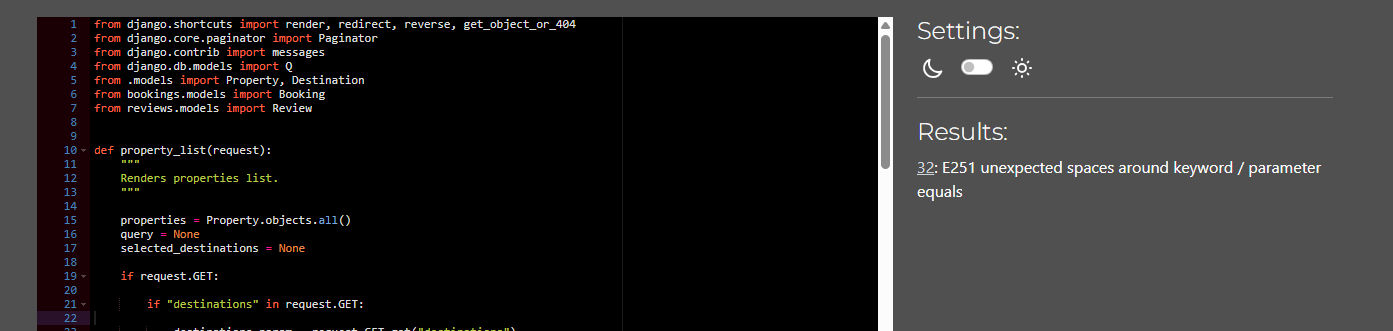
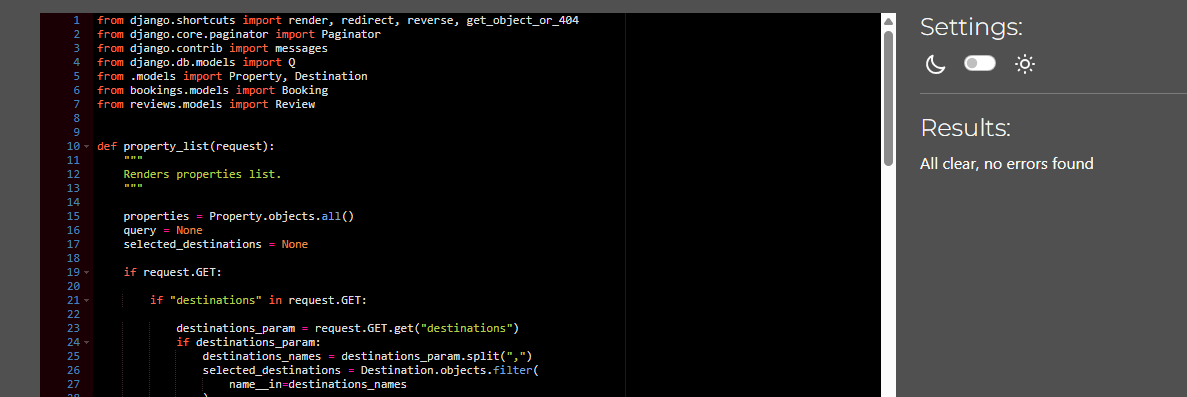
Add # noqa for long line in listings views

Changed region(s): [[0.0, 0.0302, 0.9663, 1.0]]

diff --git a/listings/views.py b/listings/views.py
@@ -29,7 +29,7 @@ def property_list(request):
 
                 is_dest = Q(destinations__name__in=destinations_names)
                 is_parent = Q(
-                    destinations__parent_destination__name__in=destinations_names
+                    destinations__parent_destination__name__in=destinations_names  # noqa
                 )
                 properties = properties.filter(is_dest | is_parent).distinct()
 

diff --git a/TESTING.md b/TESTING.md
@@ -55,68 +55,68 @@ I have used the recommended [JShint Validator](https://jshint.com) to validate a
 
 I have used the recommended [PEP8 CI Python Linter](https://pep8ci.herokuapp.com) to validate all of my Python files.
 
-| Directory    | File                                                                                                 | URL                                                                                                                                   | Screenshot                                                                   | Notes                                    |
-| ------------ | ---------------------------------------------------------------------------------------------------- | ------------------------------------------------------------------------------------------------------------------------------------- | ---------------------------------------------------------------------------- | ---------------------------------------- |
-| bookings     | [admin.py](https://github.com/EllisBale/stay_hollow/blob/main/bookings/admin.py)                     | [PEP8 CI Link](https://pep8ci.herokuapp.com/https://raw.githubusercontent.com/EllisBale/stay_hollow/main/bookings/admin.py)           | ![screenshot](docs/testing_imgs/python_linter/bookings_admin.png)            |                                          |
-| bookings     | [forms.py](https://github.com/EllisBale/stay_hollow/blob/main/bookings/forms.py)                     | [PEP8 CI Link](https://pep8ci.herokuapp.com/https://raw.githubusercontent.com/EllisBale/stay_hollow/main/bookings/forms.py)           | ![screenshot](docs/testing_imgs/python_linter/bookings_forms.png)            |                                          |
-| bookings     | [models.py](https://github.com/EllisBale/stay_hollow/blob/main/bookings/models.py)                   | [PEP8 CI Link](https://pep8ci.herokuapp.com/https://raw.githubusercontent.com/EllisBale/stay_hollow/main/bookings/models.py)          | ![screenshot](docs/testing_imgs/python_linter/bookings_model.png)            |                                          |
-| bookings     | [test_forms.py](https://github.com/EllisBale/stay_hollow/blob/main/bookings/test_forms.py)           | [PEP8 CI Link](https://pep8ci.herokuapp.com/https://raw.githubusercontent.com/EllisBale/stay_hollow/main/bookings/test_forms.py)      | ![screenshot](docs/testing_imgs/python_linter/bookings_test_form.png)        |                                          |
-| bookings     | [test_models.py](https://github.com/EllisBale/stay_hollow/blob/main/bookings/test_models.py)         | [PEP8 CI Link](https://pep8ci.herokuapp.com/https://raw.githubusercontent.com/EllisBale/stay_hollow/main/bookings/test_models.py)     | ![screenshot](docs/testing_imgs/python_linter/bookings_test_model.png)       |                                          |
-| bookings     | [test_views.py](https://github.com/EllisBale/stay_hollow/blob/main/bookings/test_views.py)           | [PEP8 CI Link](https://pep8ci.herokuapp.com/https://raw.githubusercontent.com/EllisBale/stay_hollow/main/bookings/test_views.py)      | ![screenshot](docs/testing_imgs/python_linter/bookings_test_views.png)       |                                          |
-| bookings     | [tests.py](https://github.com/EllisBale/stay_hollow/blob/main/bookings/tests.py)                     | [PEP8 CI Link](https://pep8ci.herokuapp.com/https://raw.githubusercontent.com/EllisBale/stay_hollow/main/bookings/tests.py)           | ![screenshot](docs/testing_imgs/python_linter/bookings_test.png)             |                                          |
-| bookings     | [urls.py](https://github.com/EllisBale/stay_hollow/blob/main/bookings/urls.py)                       | [PEP8 CI Link](https://pep8ci.herokuapp.com/https://raw.githubusercontent.com/EllisBale/stay_hollow/main/bookings/urls.py)            | ![screenshot](docs/testing_imgs/python_linter/bookings_url.png)              |                                          |
-| bookings     | [views.py](https://github.com/EllisBale/stay_hollow/blob/main/bookings/views.py)                     | [PEP8 CI Link](https://pep8ci.herokuapp.com/https://raw.githubusercontent.com/EllisBale/stay_hollow/main/bookings/views.py)           | ![screenshot](docs/testing_imgs/python_linter/booking_views.png)             |                                          |
-| checkout     | [admin.py](https://github.com/EllisBale/stay_hollow/blob/main/checkout/admin.py)                     | [PEP8 CI Link](https://pep8ci.herokuapp.com/https://raw.githubusercontent.com/EllisBale/stay_hollow/main/checkout/admin.py)           | ![screenshot](docs/testing_imgs/python_linter/checkout_admin.png)            |                                          |
-| checkout     | [forms.py](https://github.com/EllisBale/stay_hollow/blob/main/checkout/forms.py)                     | [PEP8 CI Link](https://pep8ci.herokuapp.com/https://raw.githubusercontent.com/EllisBale/stay_hollow/main/checkout/forms.py)           | ![screenshot](docs/testing_imgs/python_linter/checkout_forms.png)            |                                          |
-| checkout     | [models.py](https://github.com/EllisBale/stay_hollow/blob/main/checkout/models.py)                   | [PEP8 CI Link](https://pep8ci.herokuapp.com/https://raw.githubusercontent.com/EllisBale/stay_hollow/main/checkout/models.py)          | ![screenshot](docs/testing_imgs/python_linter/checkout_models.png)           |                                          |
-| checkout     | [test_forms.py](https://github.com/EllisBale/stay_hollow/blob/main/checkout/test_forms.py)           | [PEP8 CI Link](https://pep8ci.herokuapp.com/https://raw.githubusercontent.com/EllisBale/stay_hollow/main/checkout/test_forms.py)      | ![screenshot](docs/testing_imgs/python_linter/checkout_test_forms.png)       |                                          |
-| checkout     | [test_models.py](https://github.com/EllisBale/stay_hollow/blob/main/checkout/test_models.py)         | [PEP8 CI Link](https://pep8ci.herokuapp.com/https://raw.githubusercontent.com/EllisBale/stay_hollow/main/checkout/test_models.py)     | ![screenshot](docs/testing_imgs/python_linter/checkout_test_model.png)       |                                          |
-| checkout     | [test_views.py](https://github.com/EllisBale/stay_hollow/blob/main/checkout/test_views.py)           | [PEP8 CI Link](https://pep8ci.herokuapp.com/https://raw.githubusercontent.com/EllisBale/stay_hollow/main/checkout/test_views.py)      | ![screenshot](docs/testing_imgs/python_linter/checkout_test_views.png)       |                                          |
-| checkout     | [tests.py](https://github.com/EllisBale/stay_hollow/blob/main/checkout/tests.py)                     | [PEP8 CI Link](https://pep8ci.herokuapp.com/https://raw.githubusercontent.com/EllisBale/stay_hollow/main/checkout/tests.py)           | ![screenshot](docs/testing_imgs/python_linter/checkout_tests.png)            |                                          |
-| checkout     | [urls.py](https://github.com/EllisBale/stay_hollow/blob/main/checkout/urls.py)                       | [PEP8 CI Link](https://pep8ci.herokuapp.com/https://raw.githubusercontent.com/EllisBale/stay_hollow/main/checkout/urls.py)            | ![screenshot](docs/testing_imgs/python_linter/checkout_url.png)              |                                          |
-| checkout     | [views.py](https://github.com/EllisBale/stay_hollow/blob/main/checkout/views.py)                     | [PEP8 CI Link](https://pep8ci.herokuapp.com/https://raw.githubusercontent.com/EllisBale/stay_hollow/main/checkout/views.py)           | ![screenshot](docs/testing_imgs/python_linter/checkout_views.png)            |                                          |
-| checkout     | [webhook_handler.py](https://github.com/EllisBale/stay_hollow/blob/main/checkout/webhook_handler.py) | [PEP8 CI Link](https://pep8ci.herokuapp.com/https://raw.githubusercontent.com/EllisBale/stay_hollow/main/checkout/webhook_handler.py) | ![screenshot](docs/testing_imgs/python_linter/checkout_webhooks_handler.png) |                                          |
-| checkout     | [webhooks.py](https://github.com/EllisBale/stay_hollow/blob/main/checkout/webhooks.py)               | [PEP8 CI Link](https://pep8ci.herokuapp.com/https://raw.githubusercontent.com/EllisBale/stay_hollow/main/checkout/webhooks.py)        | ![screenshot](docs/testing_imgs/python_linter/checkout_webhooks.png)         |                                          |
-| home         | [admin.py](https://github.com/EllisBale/stay_hollow/blob/main/home/admin.py)                         | [PEP8 CI Link](https://pep8ci.herokuapp.com/https://raw.githubusercontent.com/EllisBale/stay_hollow/main/home/admin.py)               | ![screenshot](docs/testing_imgs/python_linter/home_admin.png)                |                                          |
-| home         | [models.py](https://github.com/EllisBale/stay_hollow/blob/main/home/models.py)                       | [PEP8 CI Link](https://pep8ci.herokuapp.com/https://raw.githubusercontent.com/EllisBale/stay_hollow/main/home/models.py)              | ![screenshot](docs/testing_imgs/python_linter/home_models.png)               |                                          |
-| home         | [test_views.py](https://github.com/EllisBale/stay_hollow/blob/main/home/test_views.py)               | [PEP8 CI Link](https://pep8ci.herokuapp.com/https://raw.githubusercontent.com/EllisBale/stay_hollow/main/home/test_views.py)          | ![screenshot](docs/testing_imgs/python_linter/home_test_views.png)           |                                          |
-| home         | [tests.py](https://github.com/EllisBale/stay_hollow/blob/main/home/tests.py)                         | [PEP8 CI Link](https://pep8ci.herokuapp.com/https://raw.githubusercontent.com/EllisBale/stay_hollow/main/home/tests.py)               | ![screenshot](docs/testing_imgs/python_linter/home_tests.png)                |                                          |
-| home         | [urls.py](https://github.com/EllisBale/stay_hollow/blob/main/home/urls.py)                           | [PEP8 CI Link](https://pep8ci.herokuapp.com/https://raw.githubusercontent.com/EllisBale/stay_hollow/main/home/urls.py)                | ![screenshot](docs/testing_imgs/python_linter/home_urls.png)                 |                                          |
-| home         | [views.py](https://github.com/EllisBale/stay_hollow/blob/main/home/views.py)                         | [PEP8 CI Link](https://pep8ci.herokuapp.com/https://raw.githubusercontent.com/EllisBale/stay_hollow/main/home/views.py)               | ![screenshot](docs/testing_imgs/python_linter/home_views.png)                |                                          |
-| listings     | [admin.py](https://github.com/EllisBale/stay_hollow/blob/main/listings/admin.py)                     | [PEP8 CI Link](https://pep8ci.herokuapp.com/https://raw.githubusercontent.com/EllisBale/stay_hollow/main/listings/admin.py)           | ![screenshot](docs/testing_imgs/python_linter/listings_admin.png)            |                                          |
-| listings     | [models.py](https://github.com/EllisBale/stay_hollow/blob/main/listings/models.py)                   | [PEP8 CI Link](https://pep8ci.herokuapp.com/https://raw.githubusercontent.com/EllisBale/stay_hollow/main/listings/models.py)          | ![screenshot](docs/testing_imgs/python_linter/listings_models.png)           |                                          |
-| listings     | [test_models.py](https://github.com/EllisBale/stay_hollow/blob/main/listings/test_models.py)         | [PEP8 CI Link](https://pep8ci.herokuapp.com/https://raw.githubusercontent.com/EllisBale/stay_hollow/main/listings/test_models.py)     | ![screenshot](docs/testing_imgs/python_linter/listings_test_models.png)      |                                          |
-| listings     | [test_views.py](https://github.com/EllisBale/stay_hollow/blob/main/listings/test_views.py)           | [PEP8 CI Link](https://pep8ci.herokuapp.com/https://raw.githubusercontent.com/EllisBale/stay_hollow/main/listings/test_views.py)      | ![screenshot](docs/testing_imgs/python_linter/listings_test_views.png)       |                                          |
-| listings     | [tests.py](https://github.com/EllisBale/stay_hollow/blob/main/listings/tests.py)                     | [PEP8 CI Link](https://pep8ci.herokuapp.com/https://raw.githubusercontent.com/EllisBale/stay_hollow/main/listings/tests.py)           | ![screenshot](docs/testing_imgs/python_linter/listings_tests.png)            |                                          |
-| listings     | [urls.py](https://github.com/EllisBale/stay_hollow/blob/main/listings/urls.py)                       | [PEP8 CI Link](https://pep8ci.herokuapp.com/https://raw.githubusercontent.com/EllisBale/stay_hollow/main/listings/urls.py)            | ![screenshot](docs/testing_imgs/python_linter/listings_urls.png)             |                                          |
-| listings     | [views.py](https://github.com/EllisBale/stay_hollow/blob/main/listings/views.py)                     | [PEP8 CI Link](https://pep8ci.herokuapp.com/https://raw.githubusercontent.com/EllisBale/stay_hollow/main/listings/views.py)           | ![screenshot](docs/testing_imgs/python_linter/listings_views.png)            | Tried to shorten it but it's too nested. |
-|              | [manage.py](https://github.com/EllisBale/stay_hollow/blob/main/manage.py)                            | [PEP8 CI Link](https://pep8ci.herokuapp.com/https://raw.githubusercontent.com/EllisBale/stay_hollow/main/manage.py)                   | ![screenshot](docs/testing_imgs/python_linter/manage.png)                    |                                          |
-| management   | [admin.py](https://github.com/EllisBale/stay_hollow/blob/main/management/admin.py)                   | [PEP8 CI Link](https://pep8ci.herokuapp.com/https://raw.githubusercontent.com/EllisBale/stay_hollow/main/management/admin.py)         | ![screenshot](docs/testing_imgs/python_linter/manage_admin.png)              |                                          |
-| management   | [forms.py](https://github.com/EllisBale/stay_hollow/blob/main/management/forms.py)                   | [PEP8 CI Link](https://pep8ci.herokuapp.com/https://raw.githubusercontent.com/EllisBale/stay_hollow/main/management/forms.py)         | ![screenshot](docs/testing_imgs/python_linter/manage_forms.png)              |                                          |
-| management   | [models.py](https://github.com/EllisBale/stay_hollow/blob/main/management/models.py)                 | [PEP8 CI Link](https://pep8ci.herokuapp.com/https://raw.githubusercontent.com/EllisBale/stay_hollow/main/management/models.py)        | ![screenshot](docs/testing_imgs/python_linter/manage_models.png)             |                                          |
-| management   | [test_forms.py](https://github.com/EllisBale/stay_hollow/blob/main/management/test_forms.py)         | [PEP8 CI Link](https://pep8ci.herokuapp.com/https://raw.githubusercontent.com/EllisBale/stay_hollow/main/management/test_forms.py)    | ![screenshot](docs/testing_imgs/python_linter/manage_test_forms.png)         |                                          |
-| management   | [test_views.py](https://github.com/EllisBale/stay_hollow/blob/main/management/test_views.py)         | [PEP8 CI Link](https://pep8ci.herokuapp.com/https://raw.githubusercontent.com/EllisBale/stay_hollow/main/management/test_views.py)    | ![screenshot](docs/testing_imgs/python_linter/manage_test_view.png)          |                                          |
-| management   | [tests.py](https://github.com/EllisBale/stay_hollow/blob/main/management/tests.py)                   | [PEP8 CI Link](https://pep8ci.herokuapp.com/https://raw.githubusercontent.com/EllisBale/stay_hollow/main/management/tests.py)         | ![screenshot](docs/testing_imgs/python_linter/manage_tests.png)              |                                          |
-| management   | [urls.py](https://github.com/EllisBale/stay_hollow/blob/main/management/urls.py)                     | [PEP8 CI Link](https://pep8ci.herokuapp.com/https://raw.githubusercontent.com/EllisBale/stay_hollow/main/management/urls.py)          | ![screenshot](docs/testing_imgs/python_linter/manage_urls.png)               |                                          |
-| management   | [views.py](https://github.com/EllisBale/stay_hollow/blob/main/management/views.py)                   | [PEP8 CI Link](https://pep8ci.herokuapp.com/https://raw.githubusercontent.com/EllisBale/stay_hollow/main/management/views.py)         | ![screenshot](docs/testing_imgs/python_linter/manage_views.png)              |                                          |
-| reviews      | [admin.py](https://github.com/EllisBale/stay_hollow/blob/main/reviews/admin.py)                      | [PEP8 CI Link](https://pep8ci.herokuapp.com/https://raw.githubusercontent.com/EllisBale/stay_hollow/main/reviews/admin.py)            | ![screenshot](docs/testing_imgs/python_linter/reviews_admin.png)             |                                          |
-| reviews      | [forms.py](https://github.com/EllisBale/stay_hollow/blob/main/reviews/forms.py)                      | [PEP8 CI Link](https://pep8ci.herokuapp.com/https://raw.githubusercontent.com/EllisBale/stay_hollow/main/reviews/forms.py)            | ![screenshot](docs/testing_imgs/python_linter/reviews_form.png)              |                                          |
-| reviews      | [models.py](https://github.com/EllisBale/stay_hollow/blob/main/reviews/models.py)                    | [PEP8 CI Link](https://pep8ci.herokuapp.com/https://raw.githubusercontent.com/EllisBale/stay_hollow/main/reviews/models.py)           | ![screenshot](docs/testing_imgs/python_linter/reviews_model.png)             |                                          |
-| reviews      | [test_forms.py](https://github.com/EllisBale/stay_hollow/blob/main/reviews/test_forms.py)            | [PEP8 CI Link](https://pep8ci.herokuapp.com/https://raw.githubusercontent.com/EllisBale/stay_hollow/main/reviews/test_forms.py)       | ![screenshot](docs/testing_imgs/python_linter/reviews_test_form.png)         |                                          |
-| reviews      | [test_models.py](https://github.com/EllisBale/stay_hollow/blob/main/reviews/test_models.py)          | [PEP8 CI Link](https://pep8ci.herokuapp.com/https://raw.githubusercontent.com/EllisBale/stay_hollow/main/reviews/test_models.py)      | ![screenshot](docs/testing_imgs/python_linter/reviews_test_model.png)        |                                          |
-| reviews      | [test_views.py](https://github.com/EllisBale/stay_hollow/blob/main/reviews/test_views.py)            | [PEP8 CI Link](https://pep8ci.herokuapp.com/https://raw.githubusercontent.com/EllisBale/stay_hollow/main/reviews/test_views.py)       | ![screenshot](docs/testing_imgs/python_linter/reviews_test_views.png)        |                                          |
-| reviews      | [tests.py](https://github.com/EllisBale/stay_hollow/blob/main/reviews/tests.py)                      | [PEP8 CI Link](https://pep8ci.herokuapp.com/https://raw.githubusercontent.com/EllisBale/stay_hollow/main/reviews/tests.py)            | ![screenshot](docs/testing_imgs/python_linter/reviews_test.png)              |                                          |
-| reviews      | [urls.py](https://github.com/EllisBale/stay_hollow/blob/main/reviews/urls.py)                        | [PEP8 CI Link](https://pep8ci.herokuapp.com/https://raw.githubusercontent.com/EllisBale/stay_hollow/main/reviews/urls.py)             | ![screenshot](docs/testing_imgs/python_linter/reviews_urls.png)              |                                          |
-| reviews      | [views.py](https://github.com/EllisBale/stay_hollow/blob/main/reviews/views.py)                      | [PEP8 CI Link](https://pep8ci.herokuapp.com/https://raw.githubusercontent.com/EllisBale/stay_hollow/main/reviews/views.py)            | ![screenshot](docs/testing_imgs/python_linter/reviews_views.png)             |                                          |
-| stay_hollow  | [settings.py](https://github.com/EllisBale/stay_hollow/blob/main/stay_hollow/settings.py)            | [PEP8 CI Link](https://pep8ci.herokuapp.com/https://raw.githubusercontent.com/EllisBale/stay_hollow/main/stay_hollow/settings.py)     | ![screenshot](docs/testing_imgs/python_linter/settings.png)                  |                                          |
-| stay_hollow  | [urls.py](https://github.com/EllisBale/stay_hollow/blob/main/stay_hollow/urls.py)                    | [PEP8 CI Link](https://pep8ci.herokuapp.com/https://raw.githubusercontent.com/EllisBale/stay_hollow/main/stay_hollow/urls.py)         | ![screenshot](docs/testing_imgs/python_linter/urls.png)                      |                                          |
-| user_account | [admin.py](https://github.com/EllisBale/stay_hollow/blob/main/user_account/admin.py)                 | [PEP8 CI Link](https://pep8ci.herokuapp.com/https://raw.githubusercontent.com/EllisBale/stay_hollow/main/user_account/admin.py)       | ![screenshot](docs/testing_imgs/python_linter/user_admin.png)                |                                          |
-| user_account | [forms.py](https://github.com/EllisBale/stay_hollow/blob/main/user_account/forms.py)                 | [PEP8 CI Link](https://pep8ci.herokuapp.com/https://raw.githubusercontent.com/EllisBale/stay_hollow/main/user_account/forms.py)       | ![screenshot](docs/testing_imgs/python_linter/user_forms.png)                |                                          |
-| user_account | [models.py](https://github.com/EllisBale/stay_hollow/blob/main/user_account/models.py)               | [PEP8 CI Link](https://pep8ci.herokuapp.com/https://raw.githubusercontent.com/EllisBale/stay_hollow/main/user_account/models.py)      | ![screenshot](docs/testing_imgs/python_linter/user_models.png)               |                                          |
-| user_account | [test_views.py](https://github.com/EllisBale/stay_hollow/blob/main/user_account/test_views.py)       | [PEP8 CI Link](https://pep8ci.herokuapp.com/https://raw.githubusercontent.com/EllisBale/stay_hollow/main/user_account/test_views.py)  | ![screenshot](docs/testing_imgs/python_linter/user_test_views.png)           |                                          |
-| user_account | [tests.py](https://github.com/EllisBale/stay_hollow/blob/main/user_account/tests.py)                 | [PEP8 CI Link](https://pep8ci.herokuapp.com/https://raw.githubusercontent.com/EllisBale/stay_hollow/main/user_account/tests.py)       | ![screenshot](docs/testing_imgs/python_linter/user_tests.png)                |                                          |
-| user_account | [urls.py](https://github.com/EllisBale/stay_hollow/blob/main/user_account/urls.py)                   | [PEP8 CI Link](https://pep8ci.herokuapp.com/https://raw.githubusercontent.com/EllisBale/stay_hollow/main/user_account/urls.py)        | ![screenshot](docs/testing_imgs/python_linter/user_urls.png)                 |                                          |
-| user_account | [views.py](https://github.com/EllisBale/stay_hollow/blob/main/user_account/views.py)                 | [PEP8 CI Link](https://pep8ci.herokuapp.com/https://raw.githubusercontent.com/EllisBale/stay_hollow/main/user_account/views.py)       | ![screenshot](docs/testing_imgs/python_linter/user_views.png)                |                                          |
+| Directory    | File                                                                                                 | URL                                                                                                                                   | Screenshot                                                                   | Notes |
+| ------------ | ---------------------------------------------------------------------------------------------------- | ------------------------------------------------------------------------------------------------------------------------------------- | ---------------------------------------------------------------------------- | ----- |
+| bookings     | [admin.py](https://github.com/EllisBale/stay_hollow/blob/main/bookings/admin.py)                     | [PEP8 CI Link](https://pep8ci.herokuapp.com/https://raw.githubusercontent.com/EllisBale/stay_hollow/main/bookings/admin.py)           | ![screenshot](docs/testing_imgs/python_linter/bookings_admin.png)            |       |
+| bookings     | [forms.py](https://github.com/EllisBale/stay_hollow/blob/main/bookings/forms.py)                     | [PEP8 CI Link](https://pep8ci.herokuapp.com/https://raw.githubusercontent.com/EllisBale/stay_hollow/main/bookings/forms.py)           | ![screenshot](docs/testing_imgs/python_linter/bookings_forms.png)            |       |
+| bookings     | [models.py](https://github.com/EllisBale/stay_hollow/blob/main/bookings/models.py)                   | [PEP8 CI Link](https://pep8ci.herokuapp.com/https://raw.githubusercontent.com/EllisBale/stay_hollow/main/bookings/models.py)          | ![screenshot](docs/testing_imgs/python_linter/bookings_model.png)            |       |
+| bookings     | [test_forms.py](https://github.com/EllisBale/stay_hollow/blob/main/bookings/test_forms.py)           | [PEP8 CI Link](https://pep8ci.herokuapp.com/https://raw.githubusercontent.com/EllisBale/stay_hollow/main/bookings/test_forms.py)      | ![screenshot](docs/testing_imgs/python_linter/bookings_test_form.png)        |       |
+| bookings     | [test_models.py](https://github.com/EllisBale/stay_hollow/blob/main/bookings/test_models.py)         | [PEP8 CI Link](https://pep8ci.herokuapp.com/https://raw.githubusercontent.com/EllisBale/stay_hollow/main/bookings/test_models.py)     | ![screenshot](docs/testing_imgs/python_linter/bookings_test_model.png)       |       |
+| bookings     | [test_views.py](https://github.com/EllisBale/stay_hollow/blob/main/bookings/test_views.py)           | [PEP8 CI Link](https://pep8ci.herokuapp.com/https://raw.githubusercontent.com/EllisBale/stay_hollow/main/bookings/test_views.py)      | ![screenshot](docs/testing_imgs/python_linter/bookings_test_views.png)       |       |
+| bookings     | [tests.py](https://github.com/EllisBale/stay_hollow/blob/main/bookings/tests.py)                     | [PEP8 CI Link](https://pep8ci.herokuapp.com/https://raw.githubusercontent.com/EllisBale/stay_hollow/main/bookings/tests.py)           | ![screenshot](docs/testing_imgs/python_linter/bookings_test.png)             |       |
+| bookings     | [urls.py](https://github.com/EllisBale/stay_hollow/blob/main/bookings/urls.py)                       | [PEP8 CI Link](https://pep8ci.herokuapp.com/https://raw.githubusercontent.com/EllisBale/stay_hollow/main/bookings/urls.py)            | ![screenshot](docs/testing_imgs/python_linter/bookings_url.png)              |       |
+| bookings     | [views.py](https://github.com/EllisBale/stay_hollow/blob/main/bookings/views.py)                     | [PEP8 CI Link](https://pep8ci.herokuapp.com/https://raw.githubusercontent.com/EllisBale/stay_hollow/main/bookings/views.py)           | ![screenshot](docs/testing_imgs/python_linter/booking_views.png)             |       |
+| checkout     | [admin.py](https://github.com/EllisBale/stay_hollow/blob/main/checkout/admin.py)                     | [PEP8 CI Link](https://pep8ci.herokuapp.com/https://raw.githubusercontent.com/EllisBale/stay_hollow/main/checkout/admin.py)           | ![screenshot](docs/testing_imgs/python_linter/checkout_admin.png)            |       |
+| checkout     | [forms.py](https://github.com/EllisBale/stay_hollow/blob/main/checkout/forms.py)                     | [PEP8 CI Link](https://pep8ci.herokuapp.com/https://raw.githubusercontent.com/EllisBale/stay_hollow/main/checkout/forms.py)           | ![screenshot](docs/testing_imgs/python_linter/checkout_forms.png)            |       |
+| checkout     | [models.py](https://github.com/EllisBale/stay_hollow/blob/main/checkout/models.py)                   | [PEP8 CI Link](https://pep8ci.herokuapp.com/https://raw.githubusercontent.com/EllisBale/stay_hollow/main/checkout/models.py)          | ![screenshot](docs/testing_imgs/python_linter/checkout_models.png)           |       |
+| checkout     | [test_forms.py](https://github.com/EllisBale/stay_hollow/blob/main/checkout/test_forms.py)           | [PEP8 CI Link](https://pep8ci.herokuapp.com/https://raw.githubusercontent.com/EllisBale/stay_hollow/main/checkout/test_forms.py)      | ![screenshot](docs/testing_imgs/python_linter/checkout_test_forms.png)       |       |
+| checkout     | [test_models.py](https://github.com/EllisBale/stay_hollow/blob/main/checkout/test_models.py)         | [PEP8 CI Link](https://pep8ci.herokuapp.com/https://raw.githubusercontent.com/EllisBale/stay_hollow/main/checkout/test_models.py)     | ![screenshot](docs/testing_imgs/python_linter/checkout_test_model.png)       |       |
+| checkout     | [test_views.py](https://github.com/EllisBale/stay_hollow/blob/main/checkout/test_views.py)           | [PEP8 CI Link](https://pep8ci.herokuapp.com/https://raw.githubusercontent.com/EllisBale/stay_hollow/main/checkout/test_views.py)      | ![screenshot](docs/testing_imgs/python_linter/checkout_test_views.png)       |       |
+| checkout     | [tests.py](https://github.com/EllisBale/stay_hollow/blob/main/checkout/tests.py)                     | [PEP8 CI Link](https://pep8ci.herokuapp.com/https://raw.githubusercontent.com/EllisBale/stay_hollow/main/checkout/tests.py)           | ![screenshot](docs/testing_imgs/python_linter/checkout_tests.png)            |       |
+| checkout     | [urls.py](https://github.com/EllisBale/stay_hollow/blob/main/checkout/urls.py)                       | [PEP8 CI Link](https://pep8ci.herokuapp.com/https://raw.githubusercontent.com/EllisBale/stay_hollow/main/checkout/urls.py)            | ![screenshot](docs/testing_imgs/python_linter/checkout_url.png)              |       |
+| checkout     | [views.py](https://github.com/EllisBale/stay_hollow/blob/main/checkout/views.py)                     | [PEP8 CI Link](https://pep8ci.herokuapp.com/https://raw.githubusercontent.com/EllisBale/stay_hollow/main/checkout/views.py)           | ![screenshot](docs/testing_imgs/python_linter/checkout_views.png)            |       |
+| checkout     | [webhook_handler.py](https://github.com/EllisBale/stay_hollow/blob/main/checkout/webhook_handler.py) | [PEP8 CI Link](https://pep8ci.herokuapp.com/https://raw.githubusercontent.com/EllisBale/stay_hollow/main/checkout/webhook_handler.py) | ![screenshot](docs/testing_imgs/python_linter/checkout_webhooks_handler.png) |       |
+| checkout     | [webhooks.py](https://github.com/EllisBale/stay_hollow/blob/main/checkout/webhooks.py)               | [PEP8 CI Link](https://pep8ci.herokuapp.com/https://raw.githubusercontent.com/EllisBale/stay_hollow/main/checkout/webhooks.py)        | ![screenshot](docs/testing_imgs/python_linter/checkout_webhooks.png)         |       |
+| home         | [admin.py](https://github.com/EllisBale/stay_hollow/blob/main/home/admin.py)                         | [PEP8 CI Link](https://pep8ci.herokuapp.com/https://raw.githubusercontent.com/EllisBale/stay_hollow/main/home/admin.py)               | ![screenshot](docs/testing_imgs/python_linter/home_admin.png)                |       |
+| home         | [models.py](https://github.com/EllisBale/stay_hollow/blob/main/home/models.py)                       | [PEP8 CI Link](https://pep8ci.herokuapp.com/https://raw.githubusercontent.com/EllisBale/stay_hollow/main/home/models.py)              | ![screenshot](docs/testing_imgs/python_linter/home_models.png)               |       |
+| home         | [test_views.py](https://github.com/EllisBale/stay_hollow/blob/main/home/test_views.py)               | [PEP8 CI Link](https://pep8ci.herokuapp.com/https://raw.githubusercontent.com/EllisBale/stay_hollow/main/home/test_views.py)          | ![screenshot](docs/testing_imgs/python_linter/home_test_views.png)           |       |
+| home         | [tests.py](https://github.com/EllisBale/stay_hollow/blob/main/home/tests.py)                         | [PEP8 CI Link](https://pep8ci.herokuapp.com/https://raw.githubusercontent.com/EllisBale/stay_hollow/main/home/tests.py)               | ![screenshot](docs/testing_imgs/python_linter/home_tests.png)                |       |
+| home         | [urls.py](https://github.com/EllisBale/stay_hollow/blob/main/home/urls.py)                           | [PEP8 CI Link](https://pep8ci.herokuapp.com/https://raw.githubusercontent.com/EllisBale/stay_hollow/main/home/urls.py)                | ![screenshot](docs/testing_imgs/python_linter/home_urls.png)                 |       |
+| home         | [views.py](https://github.com/EllisBale/stay_hollow/blob/main/home/views.py)                         | [PEP8 CI Link](https://pep8ci.herokuapp.com/https://raw.githubusercontent.com/EllisBale/stay_hollow/main/home/views.py)               | ![screenshot](docs/testing_imgs/python_linter/home_views.png)                |       |
+| listings     | [admin.py](https://github.com/EllisBale/stay_hollow/blob/main/listings/admin.py)                     | [PEP8 CI Link](https://pep8ci.herokuapp.com/https://raw.githubusercontent.com/EllisBale/stay_hollow/main/listings/admin.py)           | ![screenshot](docs/testing_imgs/python_linter/listings_admin.png)            |       |
+| listings     | [models.py](https://github.com/EllisBale/stay_hollow/blob/main/listings/models.py)                   | [PEP8 CI Link](https://pep8ci.herokuapp.com/https://raw.githubusercontent.com/EllisBale/stay_hollow/main/listings/models.py)          | ![screenshot](docs/testing_imgs/python_linter/listings_models.png)           |       |
+| listings     | [test_models.py](https://github.com/EllisBale/stay_hollow/blob/main/listings/test_models.py)         | [PEP8 CI Link](https://pep8ci.herokuapp.com/https://raw.githubusercontent.com/EllisBale/stay_hollow/main/listings/test_models.py)     | ![screenshot](docs/testing_imgs/python_linter/listings_test_models.png)      |       |
+| listings     | [test_views.py](https://github.com/EllisBale/stay_hollow/blob/main/listings/test_views.py)           | [PEP8 CI Link](https://pep8ci.herokuapp.com/https://raw.githubusercontent.com/EllisBale/stay_hollow/main/listings/test_views.py)      | ![screenshot](docs/testing_imgs/python_linter/listings_test_views.png)       |       |
+| listings     | [tests.py](https://github.com/EllisBale/stay_hollow/blob/main/listings/tests.py)                     | [PEP8 CI Link](https://pep8ci.herokuapp.com/https://raw.githubusercontent.com/EllisBale/stay_hollow/main/listings/tests.py)           | ![screenshot](docs/testing_imgs/python_linter/listings_tests.png)            |       |
+| listings     | [urls.py](https://github.com/EllisBale/stay_hollow/blob/main/listings/urls.py)                       | [PEP8 CI Link](https://pep8ci.herokuapp.com/https://raw.githubusercontent.com/EllisBale/stay_hollow/main/listings/urls.py)            | ![screenshot](docs/testing_imgs/python_linter/listings_urls.png)             |       |
+| listings     | [views.py](https://github.com/EllisBale/stay_hollow/blob/main/listings/views.py)                     | [PEP8 CI Link](https://pep8ci.herokuapp.com/https://raw.githubusercontent.com/EllisBale/stay_hollow/main/listings/views.py)           | ![screenshot](docs/testing_imgs/python_linter/listings_views.png)            |       |
+|              | [manage.py](https://github.com/EllisBale/stay_hollow/blob/main/manage.py)                            | [PEP8 CI Link](https://pep8ci.herokuapp.com/https://raw.githubusercontent.com/EllisBale/stay_hollow/main/manage.py)                   | ![screenshot](docs/testing_imgs/python_linter/manage.png)                    |       |
+| management   | [admin.py](https://github.com/EllisBale/stay_hollow/blob/main/management/admin.py)                   | [PEP8 CI Link](https://pep8ci.herokuapp.com/https://raw.githubusercontent.com/EllisBale/stay_hollow/main/management/admin.py)         | ![screenshot](docs/testing_imgs/python_linter/manage_admin.png)              |       |
+| management   | [forms.py](https://github.com/EllisBale/stay_hollow/blob/main/management/forms.py)                   | [PEP8 CI Link](https://pep8ci.herokuapp.com/https://raw.githubusercontent.com/EllisBale/stay_hollow/main/management/forms.py)         | ![screenshot](docs/testing_imgs/python_linter/manage_forms.png)              |       |
+| management   | [models.py](https://github.com/EllisBale/stay_hollow/blob/main/management/models.py)                 | [PEP8 CI Link](https://pep8ci.herokuapp.com/https://raw.githubusercontent.com/EllisBale/stay_hollow/main/management/models.py)        | ![screenshot](docs/testing_imgs/python_linter/manage_models.png)             |       |
+| management   | [test_forms.py](https://github.com/EllisBale/stay_hollow/blob/main/management/test_forms.py)         | [PEP8 CI Link](https://pep8ci.herokuapp.com/https://raw.githubusercontent.com/EllisBale/stay_hollow/main/management/test_forms.py)    | ![screenshot](docs/testing_imgs/python_linter/manage_test_forms.png)         |       |
+| management   | [test_views.py](https://github.com/EllisBale/stay_hollow/blob/main/management/test_views.py)         | [PEP8 CI Link](https://pep8ci.herokuapp.com/https://raw.githubusercontent.com/EllisBale/stay_hollow/main/management/test_views.py)    | ![screenshot](docs/testing_imgs/python_linter/manage_test_view.png)          |       |
+| management   | [tests.py](https://github.com/EllisBale/stay_hollow/blob/main/management/tests.py)                   | [PEP8 CI Link](https://pep8ci.herokuapp.com/https://raw.githubusercontent.com/EllisBale/stay_hollow/main/management/tests.py)         | ![screenshot](docs/testing_imgs/python_linter/manage_tests.png)              |       |
+| management   | [urls.py](https://github.com/EllisBale/stay_hollow/blob/main/management/urls.py)                     | [PEP8 CI Link](https://pep8ci.herokuapp.com/https://raw.githubusercontent.com/EllisBale/stay_hollow/main/management/urls.py)          | ![screenshot](docs/testing_imgs/python_linter/manage_urls.png)               |       |
+| management   | [views.py](https://github.com/EllisBale/stay_hollow/blob/main/management/views.py)                   | [PEP8 CI Link](https://pep8ci.herokuapp.com/https://raw.githubusercontent.com/EllisBale/stay_hollow/main/management/views.py)         | ![screenshot](docs/testing_imgs/python_linter/manage_views.png)              |       |
+| reviews      | [admin.py](https://github.com/EllisBale/stay_hollow/blob/main/reviews/admin.py)                      | [PEP8 CI Link](https://pep8ci.herokuapp.com/https://raw.githubusercontent.com/EllisBale/stay_hollow/main/reviews/admin.py)            | ![screenshot](docs/testing_imgs/python_linter/reviews_admin.png)             |       |
+| reviews      | [forms.py](https://github.com/EllisBale/stay_hollow/blob/main/reviews/forms.py)                      | [PEP8 CI Link](https://pep8ci.herokuapp.com/https://raw.githubusercontent.com/EllisBale/stay_hollow/main/reviews/forms.py)            | ![screenshot](docs/testing_imgs/python_linter/reviews_form.png)              |       |
+| reviews      | [models.py](https://github.com/EllisBale/stay_hollow/blob/main/reviews/models.py)                    | [PEP8 CI Link](https://pep8ci.herokuapp.com/https://raw.githubusercontent.com/EllisBale/stay_hollow/main/reviews/models.py)           | ![screenshot](docs/testing_imgs/python_linter/reviews_model.png)             |       |
+| reviews      | [test_forms.py](https://github.com/EllisBale/stay_hollow/blob/main/reviews/test_forms.py)            | [PEP8 CI Link](https://pep8ci.herokuapp.com/https://raw.githubusercontent.com/EllisBale/stay_hollow/main/reviews/test_forms.py)       | ![screenshot](docs/testing_imgs/python_linter/reviews_test_form.png)         |       |
+| reviews      | [test_models.py](https://github.com/EllisBale/stay_hollow/blob/main/reviews/test_models.py)          | [PEP8 CI Link](https://pep8ci.herokuapp.com/https://raw.githubusercontent.com/EllisBale/stay_hollow/main/reviews/test_models.py)      | ![screenshot](docs/testing_imgs/python_linter/reviews_test_model.png)        |       |
+| reviews      | [test_views.py](https://github.com/EllisBale/stay_hollow/blob/main/reviews/test_views.py)            | [PEP8 CI Link](https://pep8ci.herokuapp.com/https://raw.githubusercontent.com/EllisBale/stay_hollow/main/reviews/test_views.py)       | ![screenshot](docs/testing_imgs/python_linter/reviews_test_views.png)        |       |
+| reviews      | [tests.py](https://github.com/EllisBale/stay_hollow/blob/main/reviews/tests.py)                      | [PEP8 CI Link](https://pep8ci.herokuapp.com/https://raw.githubusercontent.com/EllisBale/stay_hollow/main/reviews/tests.py)            | ![screenshot](docs/testing_imgs/python_linter/reviews_test.png)              |       |
+| reviews      | [urls.py](https://github.com/EllisBale/stay_hollow/blob/main/reviews/urls.py)                        | [PEP8 CI Link](https://pep8ci.herokuapp.com/https://raw.githubusercontent.com/EllisBale/stay_hollow/main/reviews/urls.py)             | ![screenshot](docs/testing_imgs/python_linter/reviews_urls.png)              |       |
+| reviews      | [views.py](https://github.com/EllisBale/stay_hollow/blob/main/reviews/views.py)                      | [PEP8 CI Link](https://pep8ci.herokuapp.com/https://raw.githubusercontent.com/EllisBale/stay_hollow/main/reviews/views.py)            | ![screenshot](docs/testing_imgs/python_linter/reviews_views.png)             |       |
+| stay_hollow  | [settings.py](https://github.com/EllisBale/stay_hollow/blob/main/stay_hollow/settings.py)            | [PEP8 CI Link](https://pep8ci.herokuapp.com/https://raw.githubusercontent.com/EllisBale/stay_hollow/main/stay_hollow/settings.py)     | ![screenshot](docs/testing_imgs/python_linter/settings.png)                  |       |
+| stay_hollow  | [urls.py](https://github.com/EllisBale/stay_hollow/blob/main/stay_hollow/urls.py)                    | [PEP8 CI Link](https://pep8ci.herokuapp.com/https://raw.githubusercontent.com/EllisBale/stay_hollow/main/stay_hollow/urls.py)         | ![screenshot](docs/testing_imgs/python_linter/urls.png)                      |       |
+| user_account | [admin.py](https://github.com/EllisBale/stay_hollow/blob/main/user_account/admin.py)                 | [PEP8 CI Link](https://pep8ci.herokuapp.com/https://raw.githubusercontent.com/EllisBale/stay_hollow/main/user_account/admin.py)       | ![screenshot](docs/testing_imgs/python_linter/user_admin.png)                |       |
+| user_account | [forms.py](https://github.com/EllisBale/stay_hollow/blob/main/user_account/forms.py)                 | [PEP8 CI Link](https://pep8ci.herokuapp.com/https://raw.githubusercontent.com/EllisBale/stay_hollow/main/user_account/forms.py)       | ![screenshot](docs/testing_imgs/python_linter/user_forms.png)                |       |
+| user_account | [models.py](https://github.com/EllisBale/stay_hollow/blob/main/user_account/models.py)               | [PEP8 CI Link](https://pep8ci.herokuapp.com/https://raw.githubusercontent.com/EllisBale/stay_hollow/main/user_account/models.py)      | ![screenshot](docs/testing_imgs/python_linter/user_models.png)               |       |
+| user_account | [test_views.py](https://github.com/EllisBale/stay_hollow/blob/main/user_account/test_views.py)       | [PEP8 CI Link](https://pep8ci.herokuapp.com/https://raw.githubusercontent.com/EllisBale/stay_hollow/main/user_account/test_views.py)  | ![screenshot](docs/testing_imgs/python_linter/user_test_views.png)           |       |
+| user_account | [tests.py](https://github.com/EllisBale/stay_hollow/blob/main/user_account/tests.py)                 | [PEP8 CI Link](https://pep8ci.herokuapp.com/https://raw.githubusercontent.com/EllisBale/stay_hollow/main/user_account/tests.py)       | ![screenshot](docs/testing_imgs/python_linter/user_tests.png)                |       |
+| user_account | [urls.py](https://github.com/EllisBale/stay_hollow/blob/main/user_account/urls.py)                   | [PEP8 CI Link](https://pep8ci.herokuapp.com/https://raw.githubusercontent.com/EllisBale/stay_hollow/main/user_account/urls.py)        | ![screenshot](docs/testing_imgs/python_linter/user_urls.png)                 |       |
+| user_account | [views.py](https://github.com/EllisBale/stay_hollow/blob/main/user_account/views.py)                 | [PEP8 CI Link](https://pep8ci.herokuapp.com/https://raw.githubusercontent.com/EllisBale/stay_hollow/main/user_account/views.py)       | ![screenshot](docs/testing_imgs/python_linter/user_views.png)                |       |
 
 ## Responsiveness
 
